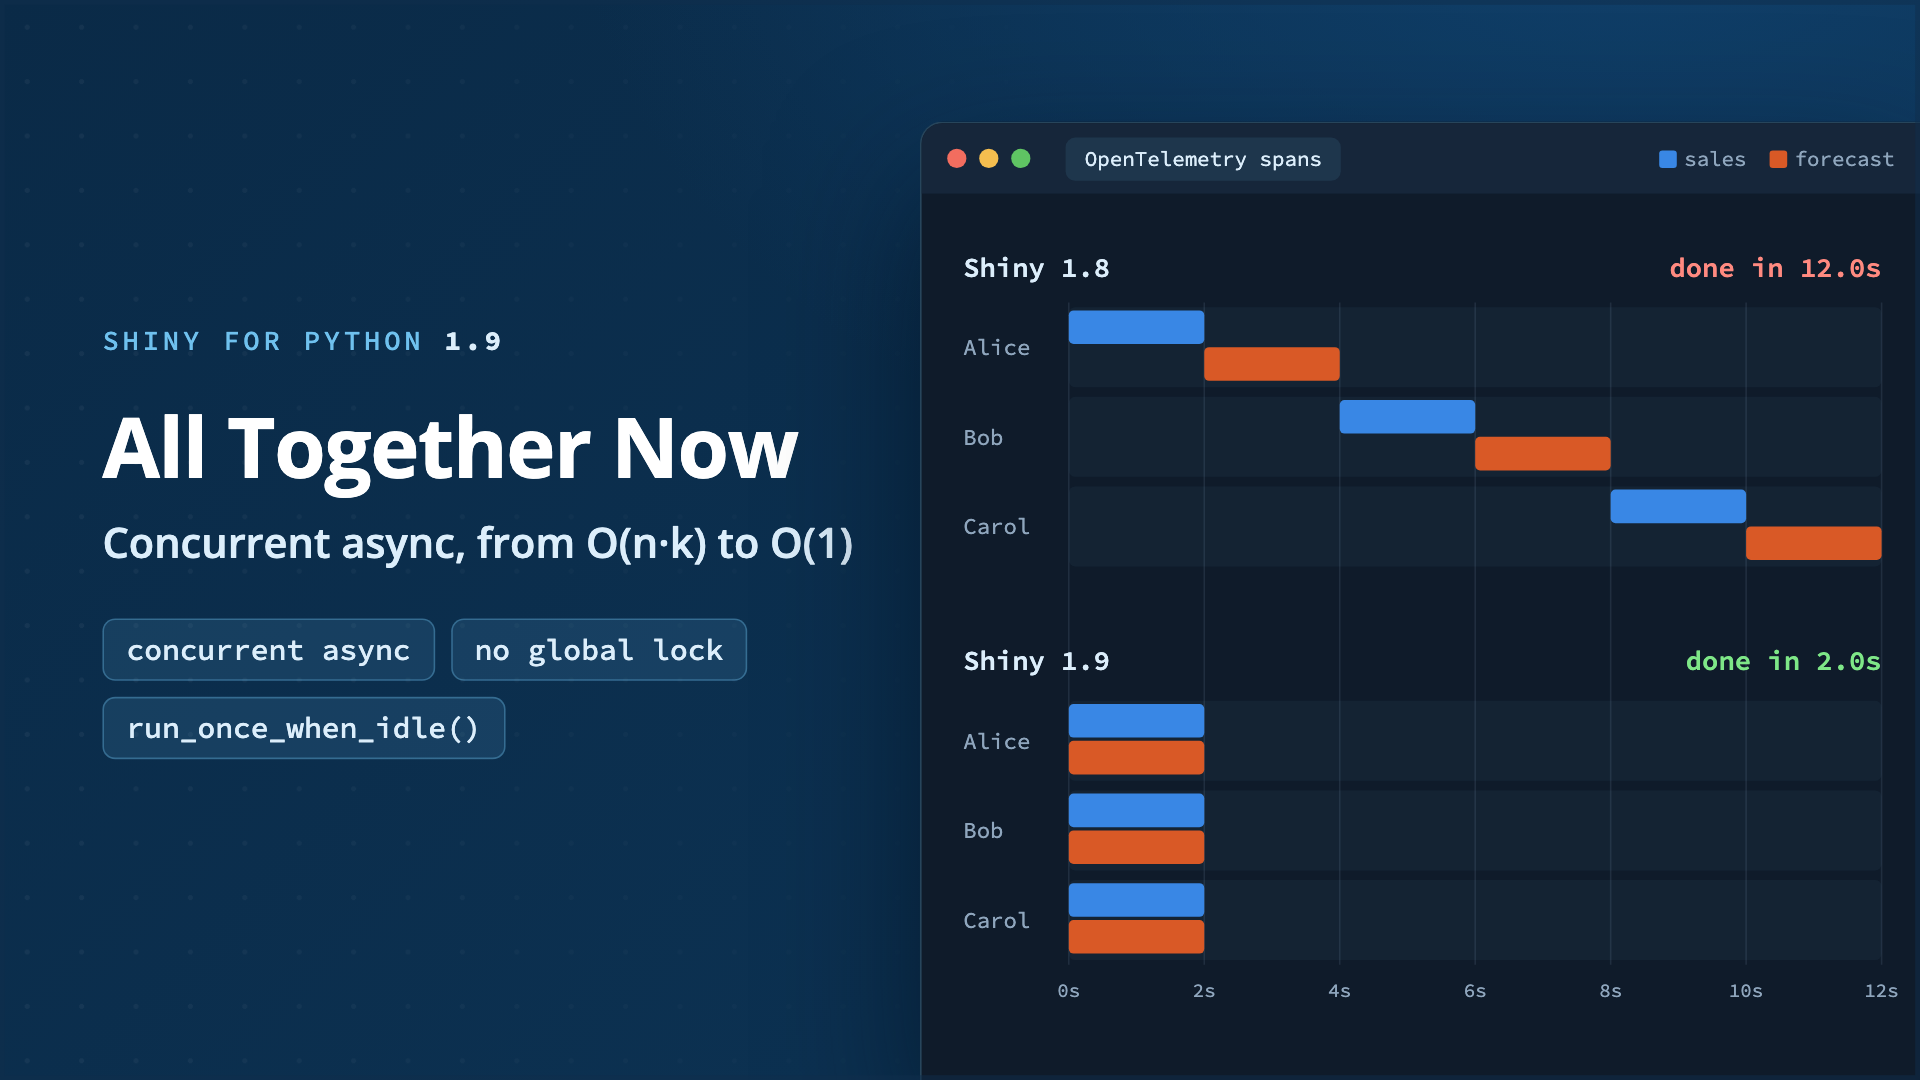
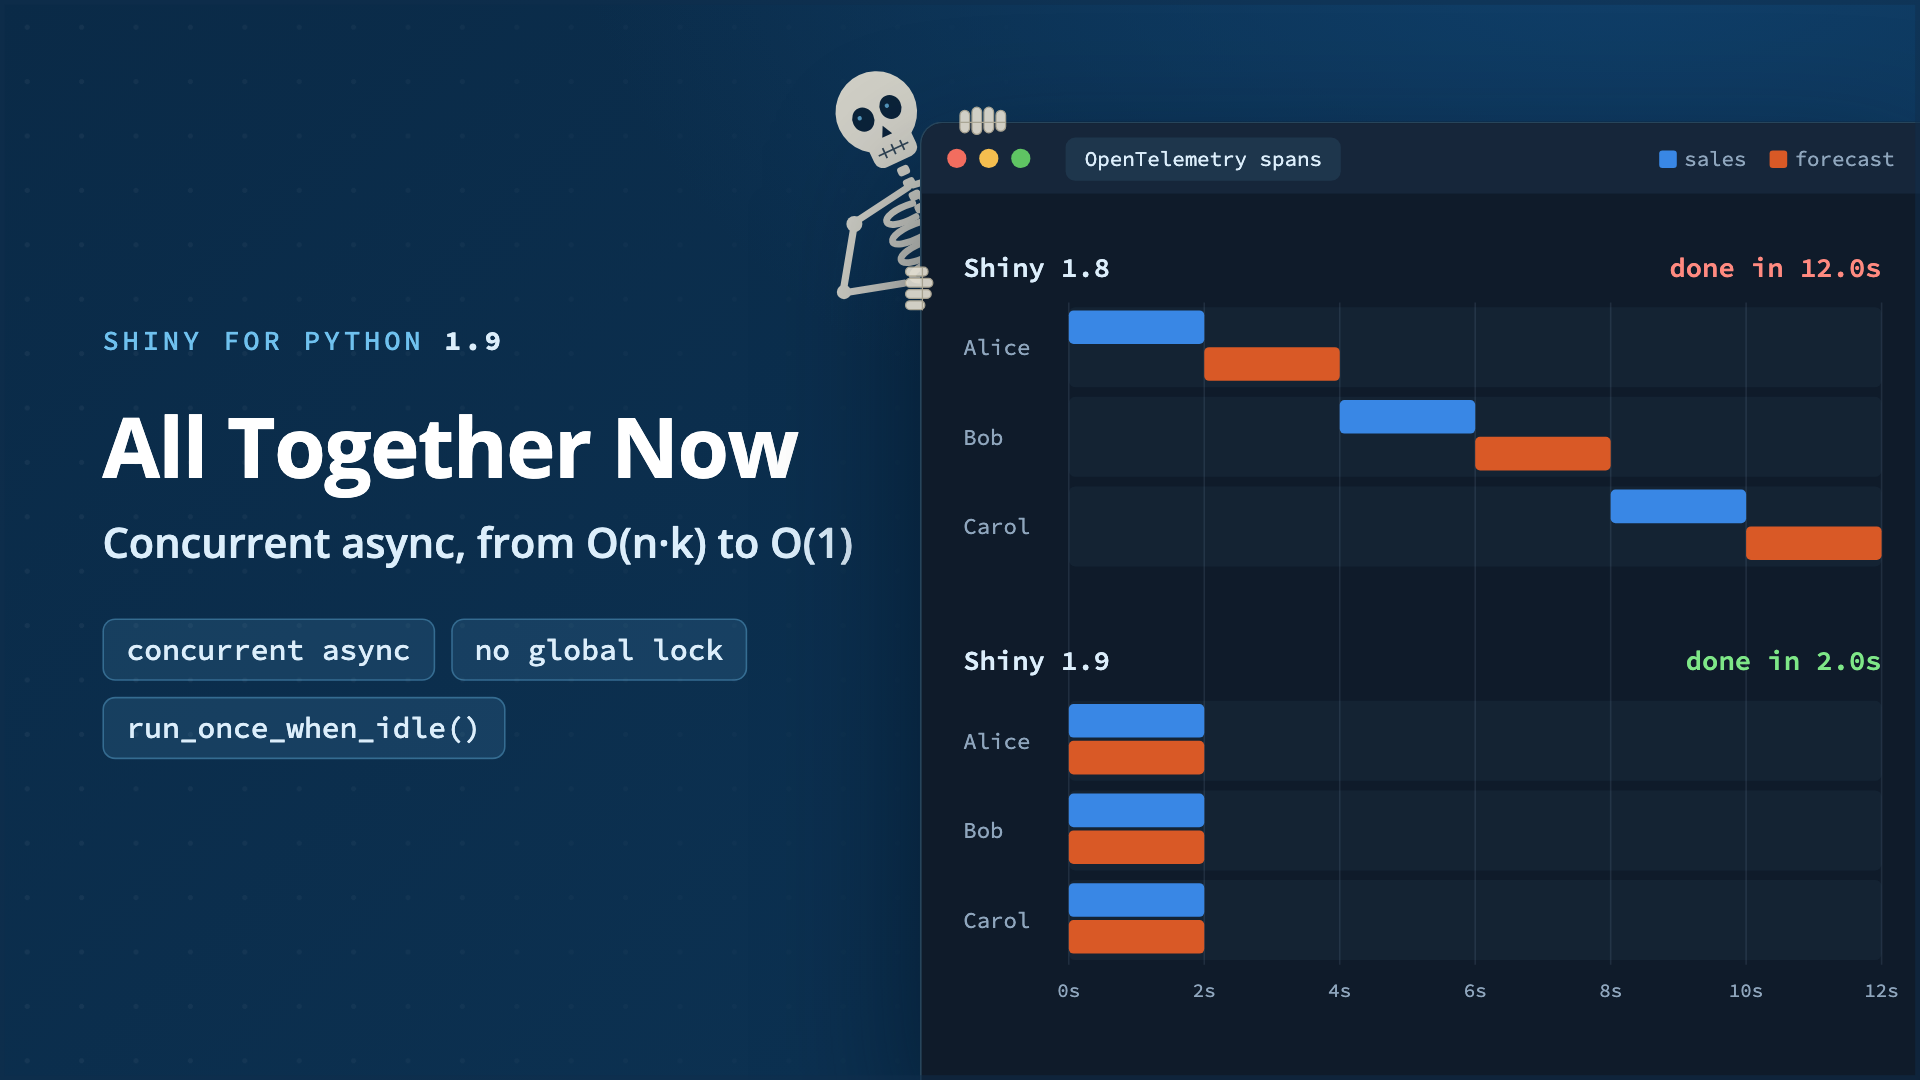
Add Halloween touches to the concurrent async post
The feature card has a skeleton in the closet peeking out from behind the trace
window, and the end of the post has an easter egg: a waving skeleton and bats,
which play once when the end of the post scrolls into view. Shorten the
run_once_when_idle() heading so it fits on narrow screens.

Changed region(s): [[0.4375, 0.0611, 0.5312, 0.3056]]

diff --git a/content/blog/shiny-python-concurrent-async/_feature-src/feature-anim.html b/content/blog/shiny-python-concurrent-async/_feature-src/feature-anim.html
@@ -127,6 +127,13 @@
     border-radius: 2px; margin-right: 5px; vertical-align: -1px;
   }
   svg { display: block; }
+
+  /* Halloween: a skeleton in the closet. It peeks out from behind the trace
+     window's top-left corner, with one hand over the top edge and one on the left
+     side. Its body sits behind the window, and its fingers in front of it. */
+  .spooky { position: absolute; left: 0; top: 0; pointer-events: none; }
+  #skeleton { z-index: 3; }
+  #grip { z-index: 5; }
 </style>
 </head>
 <body>
@@ -157,6 +164,81 @@
     </div>
     <svg id="plot" width="625" height="555"></svg>
   </div>
+
+  <svg id="skeleton" class="spooky" width="1200" height="675">
+    <g class="peek" opacity="0.9">
+      <g fill="none" stroke="#E6E1D3" stroke-width="4.5" stroke-linecap="round">
+        <path d="M534 140 L527 182"/>
+        <path d="M528 183 L565 177"/>
+      </g>
+      <g fill="#E6E1D3">
+        <circle cx="534" cy="140" r="5"/>
+        <circle cx="527.5" cy="182.5" r="4.5"/>
+      </g>
+      <g transform="translate(626 238) rotate(-25) scale(0.85) translate(0 -250)">
+        <g fill="#E6E1D3">
+          <rect x="-4.5" y="76" width="9" height="7" rx="2.5"/>
+            <rect x="-4.5" y="86" width="9" height="7" rx="2.5"/>
+            <rect x="-4.5" y="96" width="9" height="7" rx="2.5"/>
+            <rect x="-4.5" y="106" width="9" height="7" rx="2.5"/>
+            <rect x="-4.5" y="116" width="9" height="7" rx="2.5"/>
+            <rect x="-4.5" y="126" width="9" height="7" rx="2.5"/>
+            <rect x="-4.5" y="136" width="9" height="7" rx="2.5"/>
+            <rect x="-4.5" y="146" width="9" height="7" rx="2.5"/>
+            <rect x="-4.5" y="156" width="9" height="7" rx="2.5"/>
+            <rect x="-4.5" y="166" width="9" height="7" rx="2.5"/>
+        </g>
+        <g fill="none" stroke="#E6E1D3" stroke-width="5" stroke-linecap="round">
+          <path d="M-4 104 C-33.5 100 -35.5 116 -6 114"/>
+            <path d="M4 104 C33.5 100 35.5 116 6 114"/>
+            <path d="M-4 119 C-36.5 115 -38.5 131 -6 129"/>
+            <path d="M4 119 C36.5 115 38.5 131 6 129"/>
+            <path d="M-4 134 C-36.5 130 -38.5 146 -6 144"/>
+            <path d="M4 134 C36.5 130 38.5 146 6 144"/>
+            <path d="M-4 149 C-33.5 145 -35.5 161 -6 159"/>
+            <path d="M4 149 C33.5 145 35.5 161 6 159"/>
+          <path d="M-2 92 L-50 99"/>
+          <path d="M2 92 L50 99"/>
+        </g>
+        <g fill="#E6E1D3">
+          <circle cx="0" cy="32" r="30"/>
+          <rect x="-17" y="50" width="34" height="22" rx="7"/>
+        </g>
+        <g fill="#0B2238">
+          <ellipse cx="-11" cy="33" rx="8" ry="9"/>
+          <ellipse cx="11" cy="33" rx="8" ry="9"/>
+          <path d="M0 43 L-4 51 L4 51 Z"/>
+        </g>
+        <g stroke="#0B2238" stroke-width="1.3" opacity="0.8">
+          <line x1="-12" x2="12" y1="62" y2="62"/>
+          <line x1="-7" x2="-7" y1="58" y2="66"/>
+          <line x1="0" x2="0" y1="58" y2="66"/>
+          <line x1="7" x2="7" y1="58" y2="66"/>
+        </g>
+        <g fill="#6FC1EE" opacity="0.8">
+          <circle cx="-13" cy="31" r="1.6"/>
+          <circle cx="9" cy="31" r="1.6"/>
+        </g>
+      </g>
+    </g>
+  </svg>
+
+  <svg id="grip" class="spooky" width="1200" height="675">
+    <g class="fingers" opacity="0.9" fill="#E6E1D3" stroke="#B9B19C" stroke-width="0.8">
+      <!-- the hand over the top edge -->
+      <rect x="600" y="69" width="6" height="14" rx="3"/>
+      <rect x="607.5" y="67" width="6" height="17" rx="3"/>
+      <rect x="615" y="67" width="6" height="16" rx="3"/>
+      <rect x="622.5" y="69" width="6" height="13" rx="3"/>
+      <line x1="600" x2="628.5" y1="76.5" y2="76.5"/>
+      <!-- the hand on the left side -->
+      <rect x="566" y="167" width="14" height="5.5" rx="2.7"/>
+      <rect x="566" y="174" width="17" height="5.5" rx="2.7"/>
+      <rect x="566" y="181" width="16" height="5.5" rx="2.7"/>
+      <rect x="566" y="188" width="12" height="5.5" rx="2.7"/>
+      <line x1="576.5" x2="576.5" y1="167" y2="194"/>
+    </g>
+  </svg>
 
 <script>
   // Deterministic animation driven by seek(t) so frames can be captured
@@ -238,6 +320,14 @@
         stroke="rgba(143,166,189,0.14)" stroke-width="1"/>`;
     }
     svg.innerHTML = grid + a.out + b.out + axis(b.bottom + 4);
+    // The skeleton slides out from behind the corner at the start of each loop,
+    // and its hands appear as it takes hold of the edges.
+    const peek = 1 - Math.pow(1 - phase(t, 150, 850), 3);
+    const back = 34 * (1 - peek);
+    const peekEl = document.querySelector('#skeleton .peek');
+    peekEl.setAttribute('transform', `translate(${back} ${back})`);
+    peekEl.setAttribute('opacity', 0.9 * peek);
+    document.querySelector('#grip .fingers').setAttribute('opacity', 0.9 * phase(t, 450, 850));
   };
 
   window.seek(0);

diff --git a/content/blog/shiny-python-concurrent-async/index.md b/content/blog/shiny-python-concurrent-async/index.md
@@ -16,7 +16,9 @@ image-alt: >-
   compares OpenTelemetry spans for three users who each run two two-second
   outputs. In Shiny 1.8, the six spans run one after another and finish after 12
   seconds. In Shiny 1.9, all six run at the same time and finish after 2
-  seconds.
+  seconds. For Halloween, a skeleton in the closet peeks out from behind the
+  top-left corner of the trace viewer, with one bony hand over the top edge and
+  the other on the left side.
 topics:
   - Interactive Apps
 software:
@@ -34,7 +36,7 @@ math: true
 
 - [A slow `await` in one session no longer blocks other sessions](#one-slow-user-no-longer-blocks-everyone), so the users of an app no longer wait for each other.
 - [Async outputs in the same session now run concurrently](#async-outputs-run-at-the-same-time), so a page with three slow outputs is ready in one second instead of three.
-- [`reactive.lock()` is deprecated](#reactivelock-is-deprecated), and the new [`session.run_once_when_idle()`](#new-sessionrun_once_when_idle) provides a way to change reactive state from a background task.
+- [`reactive.lock()` is deprecated](#reactivelock-is-deprecated), and the new [`session.run_once_when_idle()`](#new-run_once_when_idle) provides a way to change reactive state from a background task.
 
 ## One slow user no longer blocks everyone
 
@@ -219,7 +221,7 @@ latest.set(new_value)
 
 If your code used `reactive.lock()` to keep two pieces of your own code from running at the same time, create your own [`asyncio.Lock`](https://docs.python.org/3/library/asyncio-sync.html#asyncio.Lock) for that.
 
-## New: `session.run_once_when_idle()`
+## New: `run_once_when_idle()`
 
 <div class="callout callout-warning" role="note" aria-label="Warning">
 <div class="callout-header">
@@ -255,3 +257,141 @@ The demo apps in this post, with the live OpenTelemetry timeline, are in <!-- TO
 ## In closing
 
 This is one of the largest changes to Shiny for Python's internals since its first release, and it brings Python and R to the same reactive model. The [Shiny for Python 1.9 release post](#) <!-- TODO: link to the 1.9 release post --> covers the rest of the release. If an app behaves differently after you upgrade, please let us know! As always, if you have questions or feedback, [join us on Discord](https://discord.gg/yMGCamUMnS) or open an issue on [posit-dev/py-shiny](https://github.com/posit-dev/py-shiny/issues/new). Happy Shiny-ing!
+
+<!-- Halloween easter egg: when the end of the post scrolls into view, a skeleton
+     rises from the bottom of the screen and waves while bats fly past. It plays
+     once per page view, is skipped for readers who prefer reduced motion, and a
+     click anywhere dismisses it. -->
+<div id="spooky-egg-trigger" aria-hidden="true"></div>
+
+<script>
+(function () {
+  const trigger = document.getElementById("spooky-egg-trigger");
+  if (!trigger || !("IntersectionObserver" in window)) return;
+  if (window.matchMedia("(prefers-reduced-motion: reduce)").matches) return;
+
+  const BONE = "#EEE9DC";
+  const OUTLINE = "#7D7563";
+  const DURATION = 7000;
+
+  const bones = [
+    "M-2 92 L-50 99", "M2 92 L50 99",
+    "M-50 101 L-60 168", "M-60 170 L-54 232",
+    "M50 101 L80 62",
+  ];
+  for (let i = 0; i < 6; i++) {
+    const y = 104 + i * 15, w = 38 - Math.abs(i - 1.5) * 3;
+    bones.push(`M-4 ${y} C${-w} ${y - 4} ${-w - 2} ${y + 12} -6 ${y + 10}`);
+    bones.push(`M4 ${y} C${w} ${y - 4} ${w + 2} ${y + 12} 6 ${y + 10}`);
+  }
+  const strokes = (paths, width, color) => paths
+    .map((d) => `<path d="${d}" fill="none" stroke="${color}" stroke-width="${width}" stroke-linecap="round"/>`)
+    .join("");
+  let spine = "";
+  for (let y = 76; y < 240; y += 10) {
+    spine += `<rect x="-4.5" y="${y}" width="9" height="7" rx="2.5" fill="${BONE}" stroke="${OUTLINE}"/>`;
+  }
+  const forearm = ["M80 62 L92 8"];
+
+  const skeleton = `
+    <svg class="spooky-skeleton" viewBox="-80 -14 190 282" aria-hidden="true">
+      ${spine}
+      ${strokes(bones, 7.5, OUTLINE)}${strokes(bones, 4.5, BONE)}
+      <g class="spooky-forearm">
+        ${strokes(forearm, 7.5, OUTLINE)}${strokes(forearm, 4.5, BONE)}
+        <circle cx="93" cy="2" r="7" fill="${BONE}" stroke="${OUTLINE}" stroke-width="1.5"/>
+      </g>
+      <circle cx="-54" cy="238" r="7" fill="${BONE}" stroke="${OUTLINE}" stroke-width="1.5"/>
+      <ellipse cx="-17" cy="254" rx="17" ry="12" fill="${BONE}" stroke="${OUTLINE}" stroke-width="1.5"/>
+      <ellipse cx="17" cy="254" rx="17" ry="12" fill="${BONE}" stroke="${OUTLINE}" stroke-width="1.5"/>
+      <circle cx="0" cy="32" r="30" fill="${BONE}" stroke="${OUTLINE}" stroke-width="1.5"/>
+      <rect x="-17" y="50" width="34" height="22" rx="7" fill="${BONE}" stroke="${OUTLINE}" stroke-width="1.5"/>
+      <rect x="-15" y="48" width="30" height="6" fill="${BONE}"/>
+      <ellipse cx="-11" cy="33" rx="8" ry="9" fill="#0B2238"/>
+      <ellipse cx="11" cy="33" rx="8" ry="9" fill="#0B2238"/>
+      <circle cx="-13" cy="31" r="1.8" fill="#6FC1EE"/>
+      <circle cx="9" cy="31" r="1.8" fill="#6FC1EE"/>
+      <path d="M0 43 L-4 51 L4 51 Z" fill="#0B2238"/>
+      <g stroke="#0B2238" stroke-width="1.3">
+        <line x1="-12" x2="12" y1="62" y2="62"/>
+        <line x1="-7" x2="-7" y1="58" y2="66"/>
+        <line x1="0" x2="0" y1="58" y2="66"/>
+        <line x1="7" x2="7" y1="58" y2="66"/>
+      </g>
+    </svg>`;
+  const bat = `
+    <svg viewBox="0 0 40 18" aria-hidden="true"><g class="spooky-wings">
+      <path fill="#2B2B38" d="M20 7 C18 4 16 3 14 4 C10 0 4 0 0 5 C4 5 6 7 7 10 C9 8 12 8 13 11 C15 9 17 10 18 12 L20 15 L22 12 C23 10 25 9 27 11 C28 8 31 8 33 10 C34 7 36 5 40 5 C36 0 30 0 26 4 C24 3 22 4 20 7 Z"/>
+      <circle cx="18.6" cy="8" r="0.9" fill="#FFB300"/><circle cx="21.4" cy="8" r="0.9" fill="#FFB300"/>
+    </g></svg>`;
+
+  const css = `
+    #spooky-egg { position: fixed; inset: 0; pointer-events: none; z-index: 9999; overflow: hidden; }
+    #spooky-egg.leaving { transition: opacity 0.4s; opacity: 0; }
+    .spooky-skeleton {
+      position: absolute; right: 6vw; bottom: -70px; width: clamp(120px, 16vw, 180px);
+      animation: spooky-rise ${DURATION}ms ease-in-out both;
+    }
+    .spooky-forearm { transform-origin: 80px 62px; animation: spooky-wave 0.5s ease-in-out 0.9s 9 alternate; }
+    .spooky-bat { position: absolute; left: 0; width: clamp(34px, 4vw, 52px); animation: spooky-fly linear both; }
+    .spooky-wings { transform-origin: 20px 9px; animation: spooky-flap 0.16s ease-in-out infinite alternate; }
+    .spooky-note {
+      position: absolute; right: calc(6vw + clamp(120px, 16vw, 180px)); bottom: 120px;
+      padding: 0.5em 0.9em; border-radius: 1em; background: #0F1B2A; color: #DCEEFB;
+      font-weight: 600; box-shadow: 0 6px 20px rgba(0, 0, 0, 0.25);
+      animation: spooky-note ${DURATION}ms ease-in-out both;
+    }
+    @media (max-width: 600px) {
+      .spooky-note { right: 12px; bottom: 130px; max-width: 70vw; }
+    }
+    @keyframes spooky-rise {
+      0% { transform: translateY(105%); } 13% { transform: translateY(0); }
+      86% { transform: translateY(0); } 100% { transform: translateY(105%); }
+    }
+    @keyframes spooky-wave { from { transform: rotate(-18deg); } to { transform: rotate(14deg); } }
+    @keyframes spooky-flap { from { transform: scaleY(1); } to { transform: scaleY(0.35); } }
+    @keyframes spooky-fly {
+      0% { transform: translate(-10vw, 0); } 25% { transform: translate(20vw, -4vh); }
+      50% { transform: translate(50vw, 3vh); } 75% { transform: translate(80vw, -5vh); }
+      100% { transform: translate(112vw, -2vh); }
+    }
+    @keyframes spooky-note {
+      0%, 16% { opacity: 0; transform: scale(0.6); } 22% { opacity: 1; transform: scale(1); }
+      82% { opacity: 1; transform: scale(1); } 90%, 100% { opacity: 0; transform: scale(0.8); }
+    }`;
+
+  function play() {
+    const style = document.createElement("style");
+    style.textContent = css;
+    const egg = document.createElement("div");
+    egg.id = "spooky-egg";
+    egg.setAttribute("aria-hidden", "true");
+    const bats = [[18, 4200, 200], [30, 5000, 700], [10, 3800, 1200]]
+      .map(([top, duration, delay]) =>
+        `<div class="spooky-bat" style="top:${top}vh; animation-duration:${duration}ms; animation-delay:${delay}ms">${bat}</div>`)
+      .join("");
+    egg.innerHTML = skeleton + bats + `<div class="spooky-note">Boo! Happy Halloween from the Shiny team</div>`;
+    document.head.appendChild(style);
+    document.body.appendChild(egg);
+
+    let done = false;
+    function finish() {
+      if (done) return;
+      done = true;
+      egg.classList.add("leaving");
+      setTimeout(() => { egg.remove(); style.remove(); }, 400);
+      document.removeEventListener("pointerdown", finish);
+    }
+    document.addEventListener("pointerdown", finish);
+    setTimeout(finish, DURATION);
+  }
+
+  const observer = new IntersectionObserver((entries) => {
+    if (entries.some((entry) => entry.isIntersecting)) {
+      observer.disconnect();
+      play();
+    }
+  });
+  observer.observe(trigger);
+})();
+</script>
